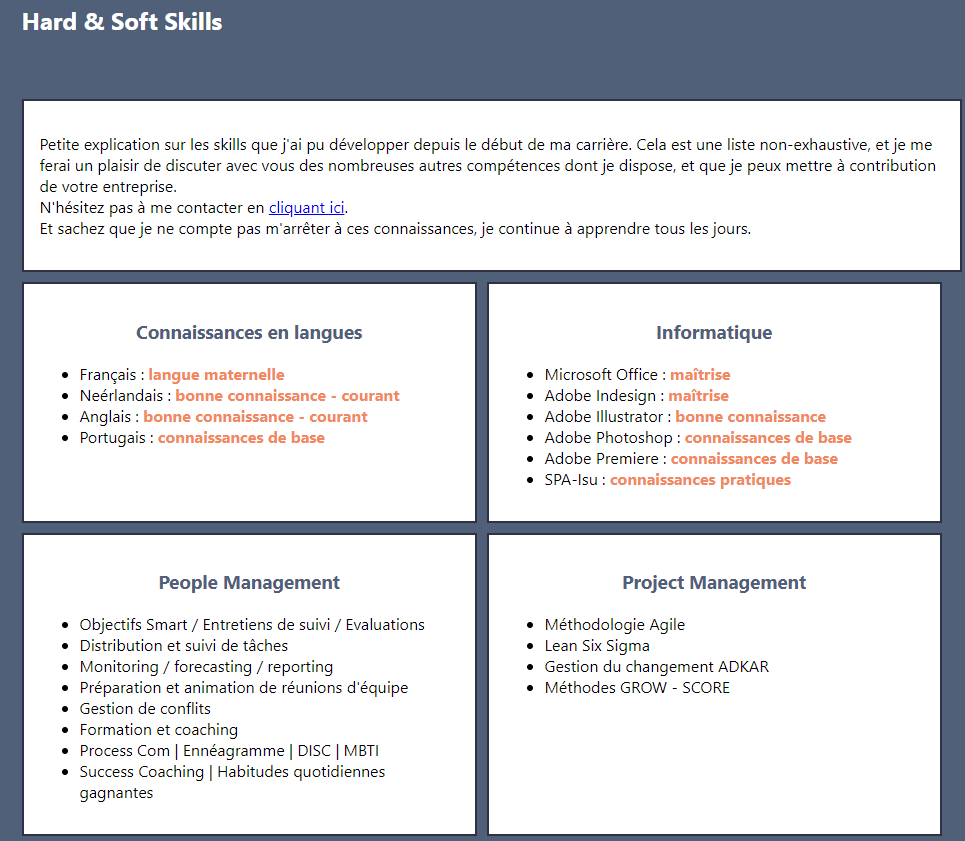
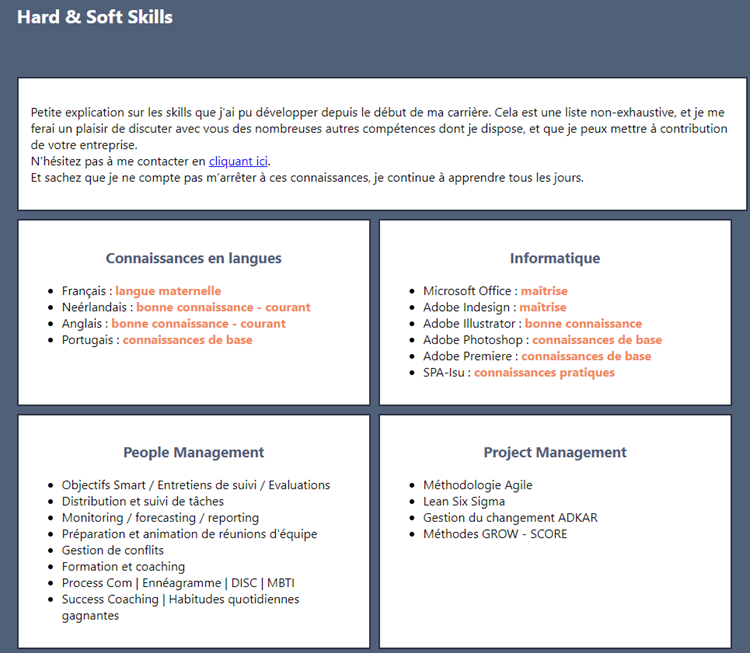
Ajout des trois photos dans le readme, décrivant les problèmes rencontrés

diff --git a/README.md b/README.md
@@ -28,3 +28,17 @@ L'objectif principal est de créer une page web qui constituera un cv en ligne, 
 1. **<span style="color:green">RESOLUE</span>** : Comment structurer à l'aide des colonnes (problèmes dans les 100%) ==> création d'une branche
 2. **<span style="color:green">RESOLUE</span>** : Comment faire disparaitre les bandes blanches au-dessus et en-dessous de nos div ==> connaissance des margins et paddings
 3. **<span style="color:orange">NON RESOLUE</span>** : quels display choisir (inline, block, etc.)
+4. **<span style="color:orange">NON RESOLUE</span>** : pourquoi y-a-t-il un débordement entre une section supérieure et une autre ? (voir photos 01 et 02)
+5. **<span style="color:orange">NON RESOLUE</span>** : comment faire pour que les photos s'adaptent à la taille des "< article >" ? (voir photo 02)
+
+
+## Annexes
+
+### Photo 01
+![Photos problème rencontré 01](pictures/images_rd_01.png)
+
+### Photo 02
+![Photos problème rencontré 02](pictures/images_rd_02.png)
+
+### Photo 03
+![Photos problème rencontré 03](pictures/images_rd_03.png)
